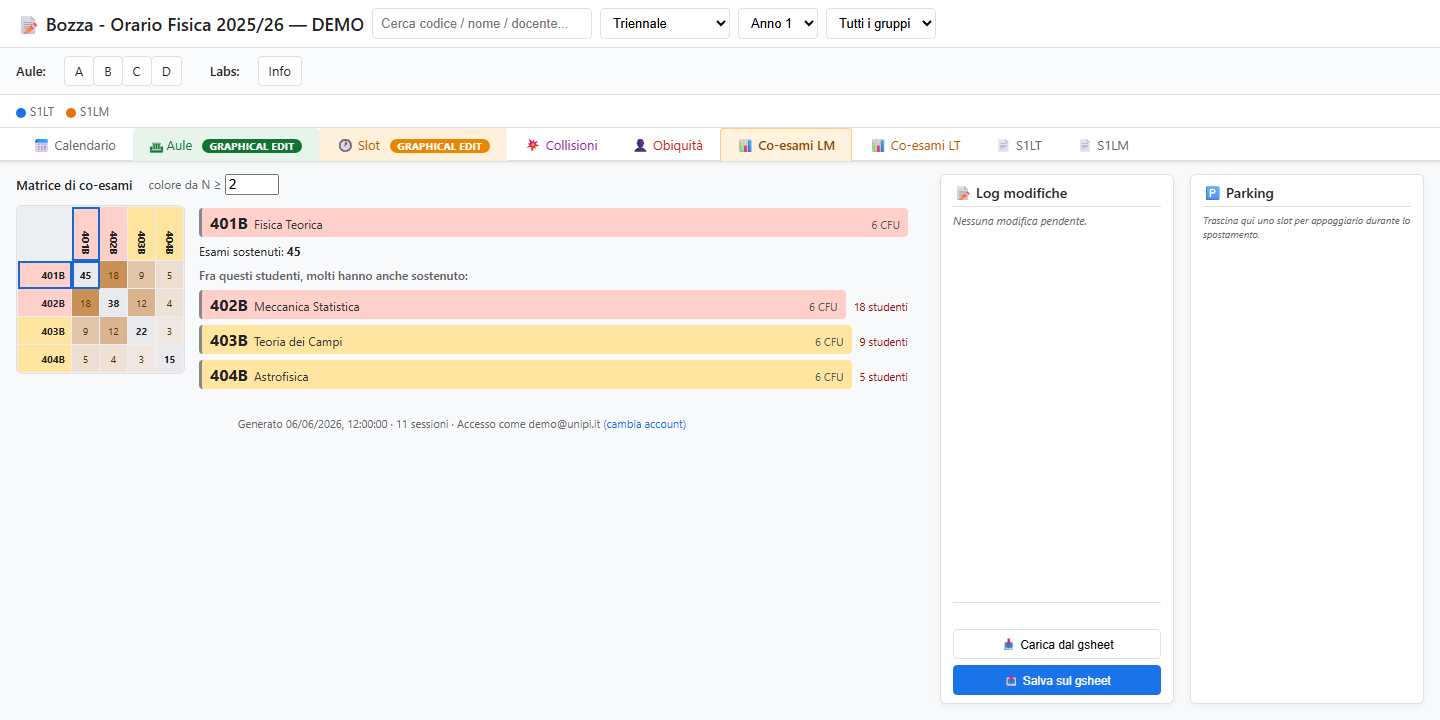
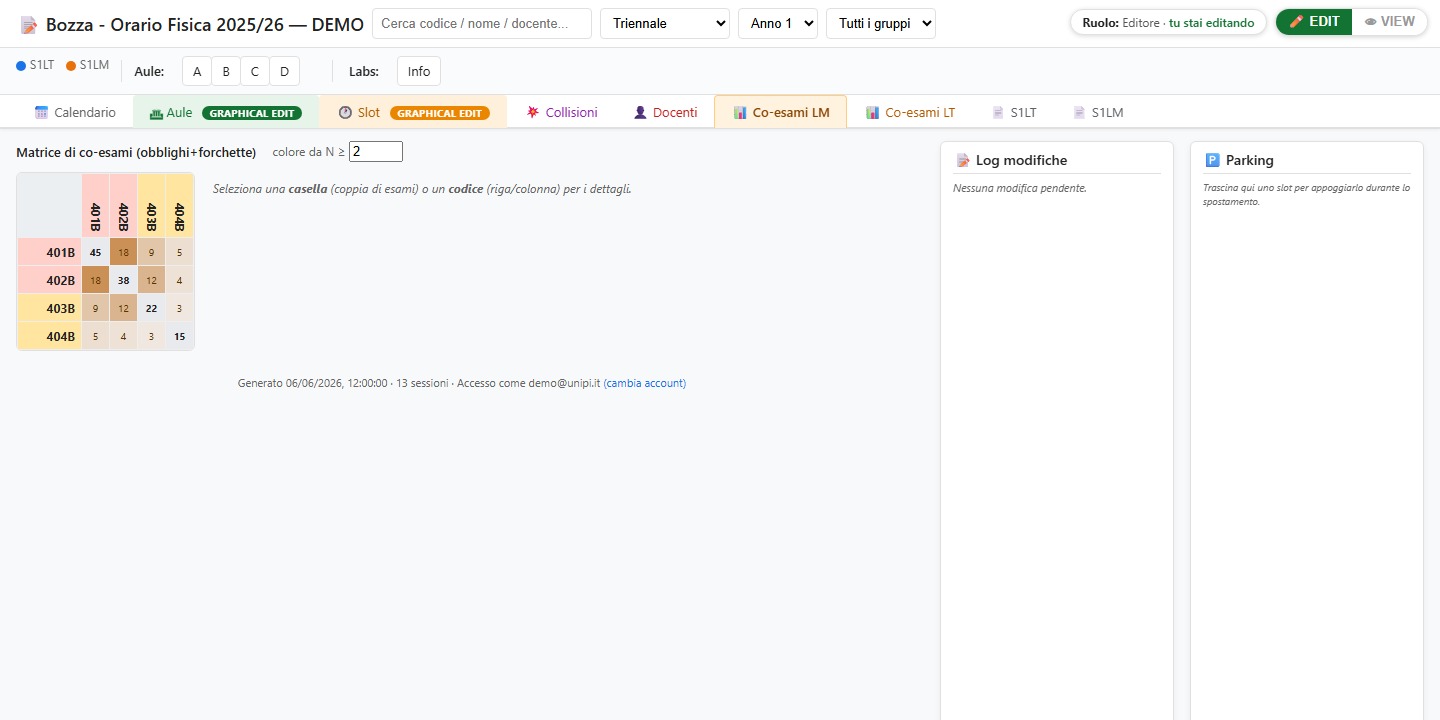
Collisioni: msg "nessuna collisione" per OBB-OBB + label co-esami LM
- Vista matrice: se non ci sono collisioni OBBLIGHI-OBBLIGHI viene mostrata una
  sezione esplicita "OBBLIGHI – OBBLIGHI · — nessuna collisione —" (come per la
  matrice OPZIONALI), invece di non mostrare nulla.
- Tab Co-esami LM: titolo ora "Matrice di co-esami (obblighi+forchette)", a
  specchio della LT "(opzionali)".

Nota (nessuna modifica di logica necessaria): l'import dei co-esami è GIÀ completo
— readCoexamMatrix_ legge l'intero foglio MATRICE (tutti i codici e tutte le coppie,
opzionali inclusi; mutuati rimappati sul capostipite) senza filtri di vincolo. I
tab mostrano un sottoinsieme (LM=OBB/FOR, LT=OPZ) ma perCode/pairs restano completi.
La matrice OPZIONALI-TUTTI è invece basata sui TEMPI (slot sovrapposti), non sui
co-esami: è vuota solo se gli opzionali del PdS (colonna G del foglio PdS) non sono
schedulati con orari sovrapposti.

- sim_collisions: +test sezione OBB-OBB vuota. 86/86.
- MANUAL + screenshot 06 (label LM) aggiornati.

diff --git a/src/index.html b/src/index.html
@@ -2696,7 +2696,10 @@ var _editActive = !!EDIT_MODE;
 
     let html = '';
     if (_collView === 'matrix') {
-      html += renderPdsLists('obb');
+      // OBBLIGHI–OBBLIGHI come liste per PdS; se non ce ne sono, lo diciamo
+      // esplicitamente (come per la matrice OPZIONALI).
+      const _obbH = renderPdsLists('obb');
+      html += _obbH || '<div class="cl-section"><h3>OBBLIGHI – OBBLIGHI</h3><div class="cl-none">— nessuna collisione —</div></div>';
       html += collMatrixHtml('OBBLIGHI – FORCHETTE <span class="cl-count">(<span class="cl-lg-obb">obbligo</span> = righe ✕ <span class="cl-lg-for">forchetta</span> = colonne)</span>', ofMap, 'of');
       html += collMatrixHtml('FORCHETTE – FORCHETTE', ffMap, 'ff');
       html += collMatrixOpzHtml('OPZIONALI – TUTTI <span class="cl-count">(<span class="cl-lg-opz">opzionale</span> = colonne ✕ tutti gli esami = righe · non valorizzate)</span>', opzMap, 'opz');
@@ -3000,7 +3003,7 @@ var _editActive = !!EDIT_MODE;
   function renderCoexamMatrix() {
     _renderCoexMatrix({
       boxId: 'coexamBody', codesKey: 'codesLM', levelRe: /LM$/i, vincoli: { OBB: 1, FOR: 1 }, selKey: 'LM', usePds: true,
-      title: 'Matrice di co-esami', emptyMsg: 'Nessun codice LM obbligatorio/forchetta del semestre.',
+      title: 'Matrice di co-esami (obblighi+forchette)', emptyMsg: 'Nessun codice LM obbligatorio/forchetta del semestre.',
       inputId: 'cxThresh', getT: () => _cxThresh, render: renderCoexamMatrix,
       setT: v => { _cxThresh = v; try { localStorage.setItem('orarioCoexThresh', String(v)); } catch (e) {} }
     });

diff --git a/scripts/sim_collisions.js b/scripts/sim_collisions.js
@@ -420,5 +420,11 @@ check('Somme: presenti i totali di riga/colonna (cx-sum) e generale (cx-grand)',
 check('Somme: i totali delle matrici (OF+FF) sommano al banner (' + grands.join('+') + '=' + bannerTot + ')',
   grands.reduce((a, b) => a + b, 0) === bannerTot);
 
+// ===== OBB-OBB vuoto: quando non ci sono collisioni obbligo-obbligo, la vista
+// matrice scrive esplicitamente "OBBLIGHI – OBBLIGHI · — nessuna collisione —"
+// (il dataset E2E non ha coppie OBB-OBB). =====
+check('OBB-OBB vuoto: sezione "OBBLIGHI – OBBLIGHI" con "nessuna collisione"',
+  /<h3>OBBLIGHI[^<]*OBBLIGHI<\/h3><div class="cl-none">[^<]*nessuna collisione/.test(eout));
+
 console.log('\nRISULTATO: ' + pass + ' pass, ' + fail + ' fail');
 process.exit(fail ? 1 : 0);

diff --git a/MANUAL.md b/MANUAL.md
@@ -214,8 +214,9 @@ tab Collisioni, passando sopra la cella costo.)*
 
 Report (sola lettura) delle sovrapposizioni d'orario, con la **funzione di costo**
 in cima (totale `ore × studenti-in-comune` a settimana). Le collisioni fra
-**obblighi** sono **sempre** mostrate come **lista**; il toggle in alto cambia solo
-le *forchette*:
+**obblighi** sono **sempre** mostrate come **lista** (se non ce ne sono, una sezione
+**OBBLIGHI–OBBLIGHI** lo dice esplicitamente: «— nessuna collisione —»); il toggle in
+alto cambia solo le *forchette*:
 - **📋 Mostra solo liste** — tutto a lista (per Piano di Studi).
 - **▦ Mostra matrice forchette** (default) — obblighi a lista + le collisioni con le
   forchette come **matrici** (OBBLIGHI–FORCHETTE e FORCHETTE–FORCHETTE), più la
@@ -318,13 +319,21 @@ docente; le collisioni fra slot dello **stesso codice** sono escluse (falsi posi
 
 ### Co-esami LM
 
-**Matrice** dei codici LM obbligatori/forchetta del semestre. **Diagonale** = `E`
+**Matrice** dei codici LM obbligatori/forchetta del semestre (intestazione
+**"Matrice di co-esami (obblighi+forchette)"**, come la LT è etichettata
+*(opzionali)*). **Diagonale** = `E`
 (numero esami sostenuti, sui 3 AA); **fuori diagonale** = `N` (studenti che hanno
 sostenuto **entrambi**). Heatmap ambra a partire dalla **soglia** impostabile nel
 campo *"colore da N ≥"* (default 2, persistita). Lo sfondo della casella del codice
 è colorato per vincolo (rosso OBB / giallo FOR); la casella in alto a sinistra è
 quadrata. **Passando sopra un codice** (riga o colonna) compare un popover con i
 dettagli del corso (titolo, docenti, settore, E…).
+
+> **Tutti i co-esami vengono importati.** Il foglio `MATRICE` viene letto **per
+> intero** — *tutti* i codici e *tutte* le coppie (opzionali compresi; i mutuati
+> rimappati sul capostipite), **senza filtri di vincolo**. Il tab LM **mostra** solo
+> il sottoinsieme **obblighi+forchette** e il tab LT i soli **opzionali**, ma il
+> dato completo (`perCode`/`pairs`) resta in memoria e alimenta i calcoli di costo.
 
 **Selezione (clic)** → a destra compare un pannello:
 - **clic su una casella** (coppia): «*N* studenti hanno sostenuto sia l'uno sia
